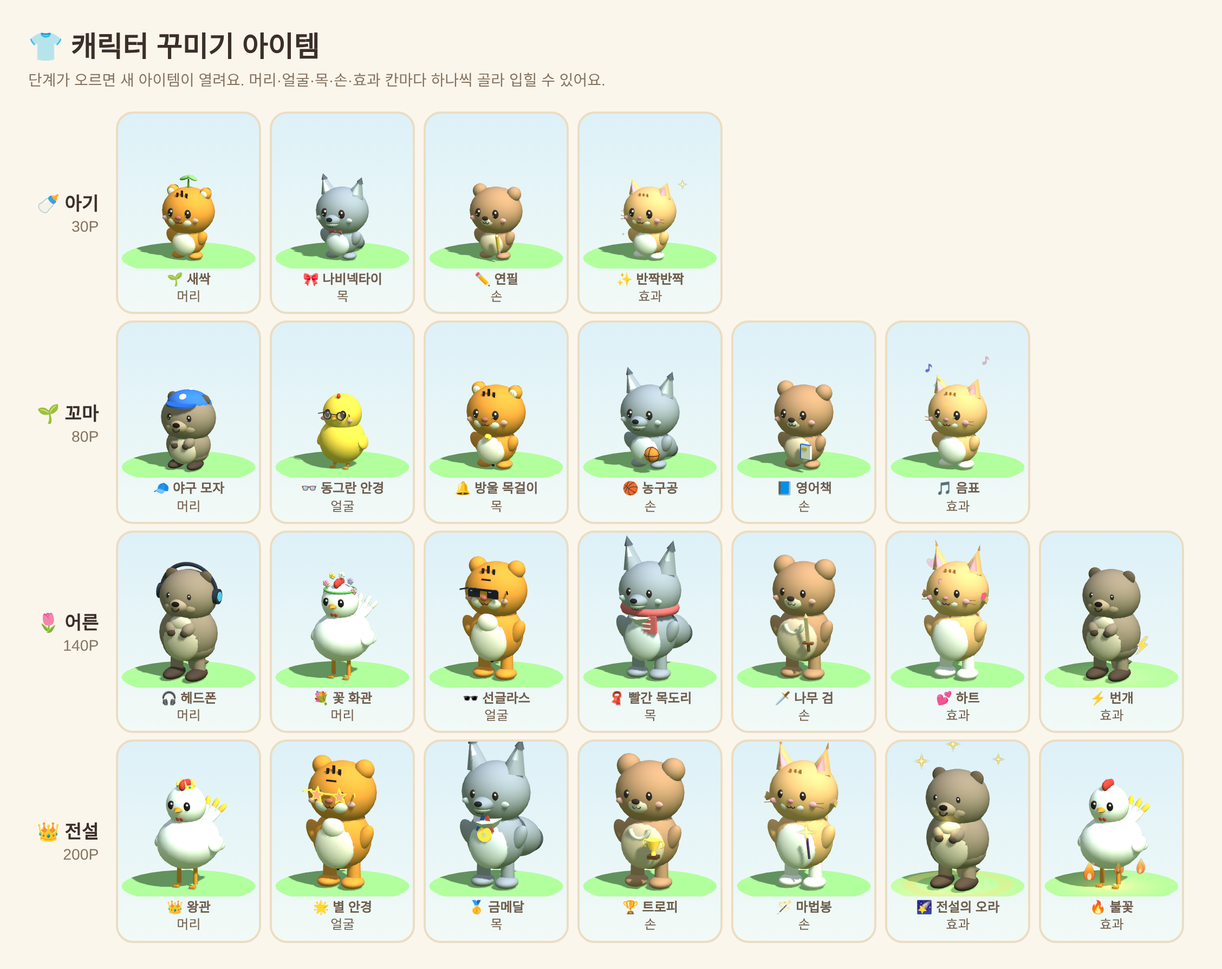
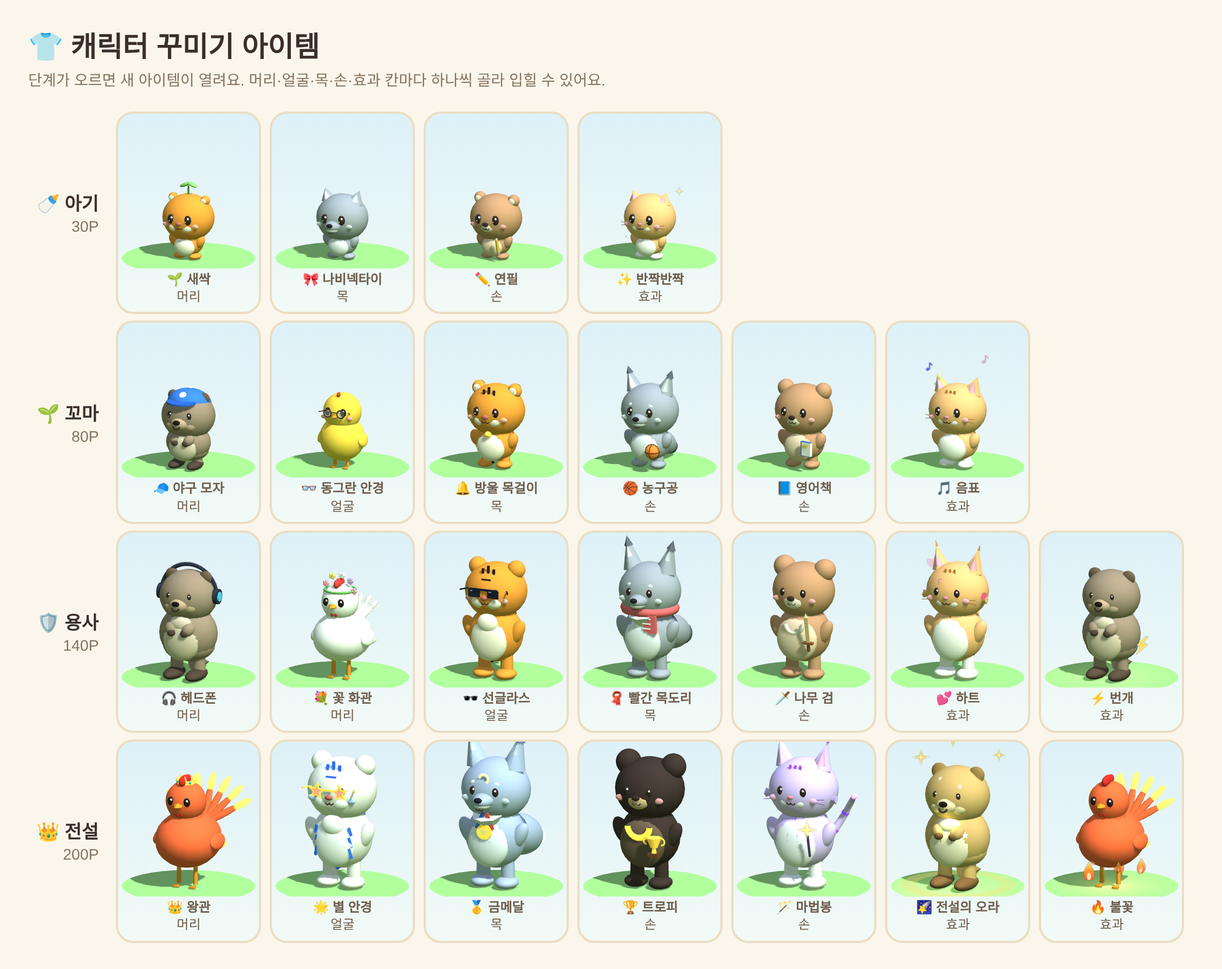
단계별 진화 모습 차별화, 어른→용사, 전설 단계 신수 변신
Claude-Session: https://claude.ai/code/session_01XAbtJ4oXmSkLcZTaopT91E

diff --git a/index.html b/index.html
@@ -810,7 +810,7 @@
       { min: 0,   label: '알',     emoji: '🥚', color: '#B08A5A', bg: '#F6ECDD' },
       { min: 30,  label: '아기',   emoji: '🍼', color: '#5B8C51', bg: '#E7F0DF' },
       { min: 80,  label: '꼬마',   emoji: '🌱', color: '#2F8F4F', bg: '#DCEDE0' },
-      { min: 140, label: '어른',   emoji: '🌷', color: '#B0558B', bg: '#F5E1EE' },
+      { min: 140, label: '용사',   emoji: '🛡', color: '#B0558B', bg: '#F5E1EE' },
       { min: 200, label: '전설',   emoji: '👑', color: '#7A4FA3', bg: '#EDE1F5' }
     ];
     function getBadge(points) {
@@ -3834,9 +3834,26 @@
         bear:   { body: 0xc1916a, belly: 0xe8cdae, accent: 0xf0a8a0, nose: 0x3a2e2a, egg: 0xf6e7d6, spot: 0xc1916a, muzzle: 0xf1dec6 },
         fox:    { body: 0xf09b52, belly: 0xfff7ec, accent: 0xf6b3a8, nose: 0x3a2e2a, egg: 0xffebd8, spot: 0xf09b52, tip: 0x5a3a28 }
       };
-      const STAGE_SCALE = [1.3, .98, 1.12, 1.22, 1.32, 1.42];
-      // 게임 단계(알·아기·꼬마·어른·전설 5단계) → 모델 체형 번호 (예전 청소년 체형 3번은 쓰지 않아요)
+      const STAGE_SCALE = [1.3, .88, 1.1, 1.22, 1.32, 1.44];
+      // 👑 전설 단계: 신수로 변신 (털 색이 바뀌고 glow 색 부분이 은은하게 빛나요)
+      const LEGEND = {
+        tiger:  { name: '백호', body: 0xf4f2ec, belly: 0xffffff, muzzle: 0xffffff, accent: 0xbcd4ff, stripe: 0x2457d6, glow: [0x2457d6], glowI: .35 },
+        wolf:   { name: '월광 늑대', body: 0xa9b8d4, belly: 0xeef3fb, muzzle: 0xeef3fb, accent: 0xc9d5ea, tip: 0x5e6f96, nose: 0x1f2433, moon: 0xffe680, tailGlow: 0xbfe0ff, glow: [0xffe680, 0xbfe0ff], glowI: .6 },
+        bear:   { name: '황금 반달곰', body: 0x3e322d, belly: 0x6b5848, muzzle: 0xcfae86, accent: 0xe8a0a0, moon: 0xffcf3d, glow: [0xffcf3d], glowI: .5 },
+        cat:    { name: '쌍꼬리 고양이', body: 0xdcc2ff, belly: 0xfaf5ff, accent: 0xf3b6e6, stripe: 0x8a3dff, whisker: 0x7a5aa6, tailGlow: 0xff9de8, glow: [0x8a3dff, 0xff9de8], glowI: .4 },
+        quokka: { name: '황금 쿼카', body: 0xcfaa6a, belly: 0xf3e6c8, muzzle: 0xe4cc9e, accent: 0xeaa896, rim: 0x9c7a46, paw: 0x6f5332, star: 0xfffbe6, glow: [0xfffbe6], glowI: .7 },
+        chick:  { name: '봉황', body: 0xff6b3d, belly: 0xffc04a, feather: 0xffd34d, comb: 0xe2302a, glow: [0xffd34d] }
+      };
+      function legendGlow(g, colors, k) {
+        const set = {}; colors.forEach(function (c) { set[c] = true; });
+        g.traverse(function (m) {
+          if (!m.isMesh || !m.material || !m.material.color || m.material.isMeshBasicMaterial) return;
+          const hex = m.material.color.getHex(); if (set[hex]) m.material = mat(hex, { emissive: hex, emissiveIntensity: k || .55 });
+        });
+      }
+      // 게임 단계(알·아기·꼬마·용사·전설 5단계) → 모델 체형 번호 (예전 청소년 체형 3번은 쓰지 않아요)
       const VIS = [0, 1, 2, 4, 5];
+      W.legendName = function (species) { return (LEGEND[species] || {}).name || ''; };
       function vis(s) { return VIS[Math.max(0, Math.min(VIS.length - 1, Number(s) || 0))]; }
       function sm(c) { return mat(c); }
       function ball(r, c, x, y, z, sx, sy, sz) {
@@ -3845,7 +3862,8 @@
       }
 
       function buildPet(species, stage) {
-        const S = SPC[species] || SPC.cat;
+        const legend = stage === 5;
+        const S = legend && LEGEND[species] ? Object.assign({}, SPC[species], LEGEND[species]) : (SPC[species] || SPC.cat);
         const g = new T.Group();
         const body = new T.Group(); g.add(body);
         const parts = { g: g, body: body };
@@ -3862,12 +3880,12 @@
           g.scale.setScalar(1);
           return parts;
         }
-        // 단계별 체형: 꼬마 → 청소년 → 어른으로 갈수록 몸이 길어지고, 다리가 보이고, 머리·눈 비율이 작아져요
-        const legH = [0, 0, 0, .12, .22, .22][stage];
-        const tSY = [0, .86, .9, 1.04, 1.14, 1.14][stage];      // 몸통 세로
-        const tSX = [0, .86, .9, .97, 1.0, 1.0][stage];         // 몸통 가로
-        const headS = [0, 1.0, .98, .93, .88, .9][stage];
-        const eyeS = [0, 1.15, 1.08, 1.0, .9, .9][stage];
+        // 단계별 체형: 아기 → 꼬마 → 용사 → 전설로 갈수록 몸이 길어지고, 다리가 보이고, 머리·눈 비율이 작아져요
+        const legH = [0, 0, .07, .12, .22, .24][stage];
+        const tSY = [0, .78, .9, 1.04, 1.14, 1.16][stage];      // 몸통 세로
+        const tSX = [0, .84, .92, .97, 1.0, 1.02][stage];       // 몸통 가로
+        const headS = [0, 1.1, .98, .93, .88, .9][stage];
+        const eyeS = [0, 1.25, 1.08, 1.0, .9, .9][stage];
         const ry = .46 * tSY, cy = .09 + legH + ry;              // 몸통 중심 높이
         const adult = stage >= 4;
         const torso = ball(.5, S.body, 0, cy, 0, tSX * (species === 'quokka' ? 1.08 : 1), .92 * tSY, .95 * tSX); body.add(torso);
@@ -3902,6 +3920,11 @@
           [-1, 1].forEach(function (sd) { head.add(ball(.17, S.muzzle, sd * .21, -.15, .43, 1, .85, .8)); });
         }
         const mouthM = new T.MeshBasicMaterial({ color: 0x3a2e2a });
+        if (species === 'wolf' && stage >= 2) {
+          // 늑대 얼굴 무늬 (꼬마부터): 눈 위 밝은 점
+          [-1, 1].forEach(function (sd) { head.add(ball(.08, S.belly, sd * .2, .2, .5, 1.2, .7, .4)); });
+        }
+        if (species === 'wolf' && legend) { const cr = mesh(new T.TorusGeometry(.085, .026, 6, 18, Math.PI * 1.25), sm(S.moon), 0, .3, .56); cr.rotation.z = -.9; head.add(cr); }
         if (species === 'wolf') {
           // 늑대: 앞으로 나온 주둥이
           const sn = 1 + (stage >= 3 ? .12 : 0) + (adult ? .1 : 0);
@@ -3922,8 +3945,8 @@
             [-.04, .04].forEach(function (x) { const m = new T.Mesh(new T.TorusGeometry(.04, .011, 4, 10, Math.PI), mouthM); m.position.set(x, -.14, species === 'bear' ? .62 : .59); m.rotation.z = Math.PI; head.add(m); });
           }
         }
-        if (species === 'tiger') {
-          // 호랑이 이마·볼 줄무늬
+        if (species === 'tiger' && stage >= 2) {
+          // 호랑이 이마·볼 줄무늬 (꼬마부터)
           const sc = sm(S.stripe);
           [[-.12, .44, .1], [0, .47, .17], [.12, .44, .1]].forEach(function (q) { head.add(mesh(new T.BoxGeometry(.05, q[2] + .08, .03), sc, q[0], q[1], .39)); });
           [-1, 1].forEach(function (sd) {
@@ -3932,33 +3955,33 @@
           if (adult) head.add(mesh(new T.BoxGeometry(.2, .04, .03), sc, 0, .32, .5));
         }
         if (species === 'cat') {
-          [-.1, 0, .1].forEach(function (x) { head.add(mesh(new T.BoxGeometry(.04, .14, .02), sm(S.stripe), x, .45, .38)); });
+          if (stage >= 2) [-.1, 0, .1].forEach(function (x) { head.add(mesh(new T.BoxGeometry(.04, .14, .02), sm(S.stripe), x, .45, .38)); });
           const wm = new T.MeshBasicMaterial({ color: S.whisker || 0x5e6780 });
           [[-1, .0], [-1, -.06], [1, 0], [1, -.06]].forEach(function (w) { const l = new T.Mesh(new T.BoxGeometry(.24 + (adult ? .06 : 0), .01, .01), wm); l.position.set(w[0] * .46, -.08 + w[1], .45); l.rotation.z = w[0] * (w[1] ? -.12 : .12); head.add(l); });
-          // 어른 고양이: 볼 털
+          // 용사 고양이: 볼 털
           if (adult) [-1, 1].forEach(function (s) { const c = mesh(new T.ConeGeometry(.09, .22, 4), sm(S.body), s * .6, -.12, .12); c.rotation.z = s * Math.PI / 2; head.add(c); });
         }
         // 귀 (자랄수록 길어지고 커져요)
         if (species === 'cat' || species === 'fox' || species === 'wolf') {
-          const h = species === 'cat' ? [0, .36, .4, .45, .5, .5][stage] : (species === 'wolf' ? [0, .5, .56, .64, .7, .7][stage] : [0, .48, .54, .6, .66, .66][stage]);
+          const h = species === 'cat' ? [0, .25, .4, .45, .5, .53][stage] : (species === 'wolf' ? [0, .32, .56, .64, .7, .76][stage] : [0, .48, .54, .6, .66, .66][stage]);
           const w = species === 'cat' ? .21 : .21 + (stage >= 3 ? .03 : 0);
           [-1, 1].forEach(function (s) {
             const ear = new T.Group(); ear.position.set(s * .36, .42, 0); ear.rotation.z = -s * (stage >= 3 ? .24 : .32);
             ear.add(mesh(new T.ConeGeometry(w, h, 4), sm(S.body), 0, h / 2, 0));
             ear.add(mesh(new T.ConeGeometry(w * .57, h * .7, 4), sm(S.accent), 0, h * .38, .08));
-            if (species === 'fox' || species === 'wolf') ear.add(mesh(new T.ConeGeometry(w * .43, h * .3, 4), sm(S.tip), 0, h * .85, 0));
+            if ((species === 'fox' || species === 'wolf') && stage >= 2) ear.add(mesh(new T.ConeGeometry(w * .43, h * .3, 4), sm(S.tip), 0, h * .85, 0));
             if (species === 'cat' && adult) ear.add(mesh(new T.ConeGeometry(.03, .14, 3), sm(S.stripe), 0, h + .04, 0));
             head.add(ear);
           });
         } else if (species === 'tiger') {
-          const er = [0, .15, .16, .18, .19, .19][stage];
+          const er = [0, .12, .16, .18, .19, .2][stage];
           [-1, 1].forEach(function (s) {
             head.add(ball(er, S.body, s * .43, .46, -.05));
             head.add(ball(er * .6, S.muzzle, s * .43, .46, .07, 1, 1, .4));
-            head.add(ball(er * .75, S.stripe, s * .43, .48, -.14, 1, 1, .4));
+            if (stage >= 2) head.add(ball(er * .75, S.stripe, s * .43, .48, -.14, 1, 1, .4));
           });
         } else if (species === 'quokka') {
-          const er = [0, .13, .14, .15, .16, .16][stage];
+          const er = [0, .1, .14, .15, .16, .17][stage];
           [-1, 1].forEach(function (sd) {
             const ear = new T.Group(); ear.position.set(sd * .4, .44, -.02); ear.rotation.z = -sd * .35;
             ear.add(ball(er, S.rim, 0, 0, 0, 1, 1, .55));
@@ -3967,7 +3990,7 @@
             head.add(ear);
           });
         } else {
-          const er = [0, .18, .19, .21, .23, .23][stage];
+          const er = [0, .15, .19, .21, .23, .24][stage];
           [-1, 1].forEach(function (s) { head.add(ball(er, S.body, s * .45, .45, -.05)); head.add(ball(er * .55, S.muzzle, s * .45, .45, .08, 1, 1, .4)); });
         }
         // 팔
@@ -3991,11 +4014,13 @@
         };
         const footL = mkFoot(-.22), footR = mkFoot(.22);
         parts.footL = footL; parts.footR = footR; parts.armL = armL; parts.armR = armR;
-        // 몸 무늬 (어른)
+        // 몸 무늬 (꼬마부터)
         if (species === 'tiger' && stage >= 2) {
           const n = adult ? 4 : 3;
-          for (let i = 0; i < n; i++) { const z = (i - (n - 1) / 2) * (adult ? .2 : .25); const st = mesh(new T.TorusGeometry(.43 * tSX, .035, 4, 16, Math.PI * .65), sm(S.stripe), 0, cy + z * .6 + .05, -.06); st.rotation.y = Math.PI / 2; st.rotation.z = Math.PI * .67; body.add(st); }
+          for (let i = 0; i < n; i++) { const z = (i - (n - 1) / 2) * (adult ? .2 : .25); const st = mesh(new T.TorusGeometry(.43 * tSX, legend ? .05 : .035, 4, 16, Math.PI * .65), sm(S.stripe), 0, cy + z * .6 + .05, -.06); st.rotation.y = Math.PI / 2; st.rotation.z = Math.PI * .67; body.add(st); }
           if (adult) body.add(ball(.2, S.belly, 0, cy + ry * .5, .38 * tSX, 1, .9, .6));
+          // 백호: 몸 앞쪽 옆구리에도 빛나는 줄무늬
+          if (legend) [-1, 1].forEach(function (sd) { [-.18, 0, .18].forEach(function (dy, i) { const b = mesh(new T.BoxGeometry(.045, .2 - i * .03, .03), sm(S.stripe), sd * .3 * tSX, cy + dy, .37 * tSX); b.rotation.y = sd * .65; b.rotation.z = sd * .3; body.add(b); }); });
         }
         if (adult && species === 'wolf') {
           const ruff = mesh(new T.ConeGeometry(.26, .42, 8), sm(S.belly), 0, cy + ry * .45, .3 * tSX); ruff.rotation.x = Math.PI + .25; body.add(ruff);
@@ -4003,54 +4028,66 @@
         }
         if (adult && species === 'quokka') body.add(ball(.2, S.belly, 0, cy + ry * .45, .34 * tSX, 1.1, .8, .6));
         if (species === 'cat' && stage >= 2) { (adult ? [-.25, 0, .25] : [-.15, .15]).forEach(function (z) { const st = mesh(new T.TorusGeometry(.42 * tSX, .028, 4, 16, Math.PI * .6), sm(S.stripe), 0, cy + z * .5 + .05, -.06); st.rotation.y = Math.PI / 2; st.rotation.z = Math.PI * .7; body.add(st); }); }
-        if (adult && species === 'bear') { const moon = mesh(new T.TorusGeometry(.17, .045, 6, 14, Math.PI), sm(0xf6ead6), 0, cy + ry * .5, .44 * tSX); moon.rotation.z = Math.PI; body.add(moon); }
+        if (adult && species === 'bear') { const moon = mesh(new T.TorusGeometry(legend ? .2 : .17, legend ? .055 : .045, 6, 14, Math.PI), sm(S.moon || 0xf6ead6), 0, cy + ry * .5, .44 * tSX + (legend ? .02 : 0)); moon.rotation.z = Math.PI; body.add(moon); }
         if (adult && species === 'fox') { const ruff = mesh(new T.ConeGeometry(.24, .4, 8), sm(S.belly), 0, cy + ry * .45, .3 * tSX); ruff.rotation.x = Math.PI + .25; body.add(ruff); }
         // 꼬리 (자랄수록 커져요)
-        const tg = [0, .85, .95, 1.1, 1.25, 1.3][stage];
+        const tg = [0, .55, .95, 1.1, 1.25, 1.35][stage];
         if (qk) { const qt = mesh(new T.ConeGeometry(.12 * tg, .5 * tg, 8), sm(S.body), 0, .14, -.62 * tSX); qt.rotation.x = -1.75; body.add(qt); }
         if (species === 'tiger') {
           // 고리 무늬가 있는 긴 꼬리
           const k = tg * .62, y0 = cy - .18;
           const curve = new T.CatmullRomCurve3([new T.Vector3(0, y0, -.42 * tSX), new T.Vector3(0, y0 - .04, -.42 - .32 * k), new T.Vector3(0, y0 + .22 * k, -.42 - .5 * k), new T.Vector3(0, y0 + .45 * k, -.42 - .42 * k)]);
           const tail = new T.Group();
-          for (let i = 0; i <= 7; i++) { const pt = curve.getPoint(i / 7); tail.add(ball(.085 - i * .002, i === 7 || i % 3 === 2 ? S.stripe : S.body, pt.x, pt.y, pt.z)); }
+          for (let i = 0; i <= 7; i++) { const pt = curve.getPoint(i / 7); tail.add(ball(.085 - i * .002, stage >= 2 && (i === 7 || i % 3 === 2) ? S.stripe : S.body, pt.x, pt.y, pt.z)); }
           body.add(tail); parts.tail = tail;
         }
         if (species === 'bear') body.add(ball(.12 * tg, S.body, 0, cy - .13, -.48 * tSX));
         if (species === 'cat') {
-          // 고양이 꼬리: 엉덩이에 붙어서 위로 부드럽게 올라가고, 끝으로 갈수록 가늘어지다 살짝 말려요
-          const k = tg, y0 = cy - .22, z0 = -.4 * tSX;
-          const curve = new T.CatmullRomCurve3([
-            new T.Vector3(0, y0, z0), new T.Vector3(0, y0 + .02, z0 - .2 * k), new T.Vector3(0, y0 + .28 * k, z0 - .32 * k),
-            new T.Vector3(0, y0 + .58 * k, z0 - .28 * k), new T.Vector3(.04, y0 + .74 * k, z0 - .12 * k)]);
-          const tail = new T.Group(), seg = 32, rad = 10;
-          // 끝으로 갈수록 가늘어지는 매끈한 관
-          const geo = new T.TubeGeometry(curve, seg, .085, rad, false), pos = geo.attributes.position, c = new T.Vector3(), v = new T.Vector3();
-          for (let i = 0; i <= seg; i++) {
-            const u = i / seg; c.copy(curve.getPointAt(u));
-            const f = 1 - u * .5;
-            for (let j = 0; j <= rad; j++) { const idx = i * (rad + 1) + j; v.fromBufferAttribute(pos, idx).sub(c).multiplyScalar(f).add(c); pos.setXYZ(idx, v.x, v.y, v.z); }
-          }
-          geo.computeVertexNormals();
-          tail.add(mesh(geo, sm(S.body)));
-          const tipP = curve.getPointAt(1); tail.add(ball(.085 * .5, S.stripe, tipP.x, tipP.y, tipP.z));
-          const tipStripe = mesh(new T.CylinderGeometry(.045, .047, .07, 10), sm(S.stripe));
-          const pT = curve.getPointAt(.93); tipStripe.position.copy(pT); tipStripe.lookAt(pT.clone().add(curve.getTangentAt(.93))); tipStripe.rotateX(Math.PI / 2); tail.add(tipStripe);
-          if (stage >= 2) [.35, .6].forEach(function (u) {
-            const pt = curve.getPointAt(u), r = .085 * (1 - u * .5) + .004;
-            const ringM = mesh(new T.CylinderGeometry(r, r, .045, 12), sm(S.stripe)); ringM.position.copy(pt);
-            ringM.lookAt(pt.clone().add(curve.getTangentAt(u))); ringM.rotateX(Math.PI / 2); tail.add(ringM);
-          });
-          body.add(tail); parts.tail = tail;
+          // 고양이 꼬리: 엉덩이에 붙어서 위로 부드럽게 올라가고, 끝으로 갈수록 가늘어지다 살짝 말려요 (전설은 꼬리가 두 개)
+          const tails = new T.Group();
+          const mkTail = function (xo, rz) {
+            const k = tg, y0 = cy - .22, z0 = -.4 * tSX;
+            const curve = new T.CatmullRomCurve3([
+              new T.Vector3(0, y0, z0), new T.Vector3(0, y0 + .02, z0 - .2 * k), new T.Vector3(0, y0 + .28 * k, z0 - .32 * k),
+              new T.Vector3(0, y0 + .58 * k, z0 - .28 * k), new T.Vector3(.04, y0 + .74 * k, z0 - .12 * k)]);
+            const tail = new T.Group(), seg = 32, rad = 10;
+            // 끝으로 갈수록 가늘어지는 매끈한 관
+            const geo = new T.TubeGeometry(curve, seg, .085, rad, false), pos = geo.attributes.position, c = new T.Vector3(), v = new T.Vector3();
+            for (let i = 0; i <= seg; i++) {
+              const u = i / seg; c.copy(curve.getPointAt(u));
+              const f = 1 - u * .5;
+              for (let j = 0; j <= rad; j++) { const idx = i * (rad + 1) + j; v.fromBufferAttribute(pos, idx).sub(c).multiplyScalar(f).add(c); pos.setXYZ(idx, v.x, v.y, v.z); }
+            }
+            geo.computeVertexNormals();
+            tail.add(mesh(geo, sm(S.body)));
+            const tipP = curve.getPointAt(1); tail.add(ball(.085 * (legend ? .62 : .5), legend ? S.tailGlow : (stage >= 2 ? S.stripe : S.body), tipP.x, tipP.y, tipP.z));
+            if (stage >= 2) { const tipStripe = mesh(new T.CylinderGeometry(.045, .047, .07, 10), sm(S.stripe));
+            const pT = curve.getPointAt(.93); tipStripe.position.copy(pT); tipStripe.lookAt(pT.clone().add(curve.getTangentAt(.93))); tipStripe.rotateX(Math.PI / 2); tail.add(tipStripe); }
+            if (stage >= 2) [.35, .6].forEach(function (u) {
+              const pt = curve.getPointAt(u), r = .085 * (1 - u * .5) + .004;
+              const ringM = mesh(new T.CylinderGeometry(r, r, .045, 12), sm(S.stripe)); ringM.position.copy(pt);
+              ringM.lookAt(pt.clone().add(curve.getTangentAt(u))); ringM.rotateX(Math.PI / 2); tail.add(ringM);
+            });
+            const piv = new T.Group(); piv.position.set(xo, y0, z0); piv.rotation.z = rz; tail.position.set(0, -y0, -z0); piv.add(tail); tails.add(piv);
+          };
+          if (legend) { mkTail(-.1, .55); mkTail(.1, -.55); } else mkTail(0, 0);
+          body.add(tails); parts.tail = tails;
         }
         if (species === 'fox' || species === 'wolf') {
           const wolf = species === 'wolf';
           const tail = new T.Group(); tail.position.set(0, cy - (wolf ? .05 : 0), -.5 * tSX); tail.rotation.x = (wolf ? -.45 : -.9) + (stage >= 3 ? .15 : 0);
           const ts = tg;
           tail.add(ball(.26 * ts, S.body, 0, 0, -.3 * ts, 1, 1, 1.9));
-          tail.add(ball(.17 * ts, wolf ? S.tip : S.belly, 0, 0, -.72 * ts, 1, 1, 1.1));
+          tail.add(ball(.17 * ts, wolf ? (legend ? S.tailGlow : S.tip) : S.belly, 0, 0, -.72 * ts, 1, 1, 1.1));
           body.add(tail); parts.tail = tail;
         }
+        if (legend && qk) {
+          // 황금 쿼카: 머리와 몸에 빛나는 별 무늬
+          const starM = sm(S.star);
+          [[head, .26, .3, .48, .9], [head, -.2, .4, .4, .8], [head, .05, .5, .2, .7]].forEach(function (q) { const s = starMesh(.06 * q[4], starM, .02); s.position.set(q[1], q[2], q[3]); s.lookAt(s.position.clone().multiplyScalar(2)); q[0].add(s); });
+          [[.3, .12, .38], [-.32, -.05, .34], [.38, -.2, .2], [-.2, .2, -.4], [.25, -.05, -.42]].forEach(function (q) { const s = starMesh(.065, starM, .02); s.position.set(q[0] * tSX, cy + q[1], q[2] * tSX); s.lookAt(new T.Vector3(q[0] * 3, cy + q[1] * 3, q[2] * 3)); body.add(s); });
+        }
+        if (legend && S.glow) legendGlow(g, S.glow, S.glowI);
         // 꾸미기 아이템을 붙일 자리 (머리는 반지름 .6 기준, 목은 몸통 좌표)
         parts.hR = .6; parts.faceY = qk ? .04 : 0;
         parts.neck = { y: cy + ry - .05, r: .4 * tSX, z: 0 };
@@ -4074,14 +4111,15 @@
 
       // ---------- 🐥 병아리 → 🐔 닭 (새는 몸 구조가 달라서 따로 만들어요) ----------
       function buildBird(stage) {
-        const S = SPC.chick;
+        const legend = stage === 5;
+        const S = legend ? Object.assign({}, SPC.chick, LEGEND.chick) : SPC.chick;
         const g = new T.Group();
         const body = new T.Group(); g.add(body);
         const parts = { g: g, body: body };
-        const legH = [0, 0, 0, .12, .22, .22][stage];
-        const br = [0, .46, .5, .5, .52, .52][stage];
-        const hr = [0, .42, .42, .37, .34, .34][stage];
-        const eyeS = [0, 1.15, 1.08, 1.0, .9, .9][stage];
+        const legH = [0, 0, .06, .12, .22, .24][stage];
+        const br = [0, .42, .5, .5, .52, .54][stage];
+        const hr = [0, .44, .42, .37, .34, .34][stage];
+        const eyeS = [0, 1.25, 1.08, 1.0, .9, .9][stage];
         const col = [0, S.chick, S.chick, S.teen, S.body, S.body][stage];
         const bel = [0, S.chickBelly, S.chickBelly, S.teenBelly, S.belly, S.belly][stage];
         const adult = stage >= 4;
@@ -4113,7 +4151,7 @@
         const bk = adult ? 1.15 : 1;
         const beakT = mesh(new T.ConeGeometry(.075 * bk, .16 * bk, 6), sm(S.beak), 0, -hr * .05, hr + .05); beakT.rotation.x = Math.PI / 2; beakT.scale.set(1.2, 1, .7); head.add(beakT);
         // 볏·턱볏 (자랄수록 커져요)
-        const combN = [0, 0, 1, 3, 4, 4][stage], combR = [0, 0, .06, .07, .085, .09][stage];
+        const combN = [0, 0, 1, 3, 4, 5][stage], combR = [0, 0, .06, .07, .085, .09][stage];
         for (let i = 0; i < combN; i++) {
           const t = combN === 1 ? 0 : i / (combN - 1);
           head.add(ball(combR * (1 - Math.abs(t - .35) * .4), S.comb, 0, hr * .92 + combR * .5, hr * (.45 - t * .7), .7, 1.1, 1));
@@ -4131,12 +4169,12 @@
         const tail = new T.Group(); tail.position.set(0, cy + br * .2, -br * sz * .85);
         if (stage <= 2) { const tf = mesh(new T.ConeGeometry(.08, .2, 6), sm(col), 0, .05, -.04); tf.rotation.x = -.9; tail.add(tf); }
         else {
-          const n = stage === 3 ? 3 : 5, len = stage === 3 ? .32 : .5;
+          const n = stage === 3 ? 3 : (legend ? 7 : 5), len = stage === 3 ? .32 : (legend ? .78 : .5);
           for (let i = 0; i < n; i++) {
             const a = (i - (n - 1) / 2) * .32;
             const f = new T.Group(); f.rotation.set(-.55, 0, a);
             f.add(ball(.09, col, 0, len * .5, 0, .7, len * 5.2, .4));
-            if (stage >= 4) f.add(ball(.07, stage === 5 ? 0xffc93c : S.feather, 0, len * .95, 0, .7, 1.6, .4));
+            if (stage >= 4) f.add(ball(legend ? .09 : .07, S.feather, 0, len * .95, 0, .7, legend ? 2.2 : 1.6, .4));
             tail.add(f);
           }
         }
@@ -4150,6 +4188,11 @@
           g.add(f); return f;
         };
         parts.footL = mkFoot(-.15); parts.footR = mkFoot(.15);
+        if (legend) {
+          // 봉황: 머리 뒤로 늘어진 금빛 깃 두 가닥
+          [-1, 1].forEach(function (sd) { const pl = ball(.05, S.feather, sd * .06, hr * .6, -hr * .9, .6, .6, 3.2); pl.rotation.x = .7; head.add(pl); });
+          legendGlow(g, S.glow);
+        }
         // 꾸미기 아이템을 붙일 자리
         parts.hR = hr; parts.faceY = 0;
         parts.neck = { y: head.position.y - hr * .85, r: hr * .85, z: head.position.z * .6 + br * sz * .42 };
@@ -5609,8 +5652,8 @@
     const PET_SPECIES_ORDER = ['tiger', 'wolf', 'chick', 'bear', 'cat', 'quokka'];
     // 병아리는 자라면 닭이 돼요: 단계에 따라 이름·이모지가 바뀌어요
     function petEmoji(species, stage) { if (species === 'chick') return stage >= 3 ? '🐔' : '🐥'; return (PET_SPECIES[species] || {}).emoji || '🐾'; }
-    function petKind(species, stage) { if (species === 'chick') return stage >= 3 ? '닭' : '병아리'; return (PET_SPECIES[species] || {}).name || ''; }
-    // 👕 캐릭터 꾸미기 아이템 (stage: 열리는 BADGE_TIERS 번호 — 1 아기, 2 꼬마, 3 어른, 4 전설)
+    function petKind(species, stage) { if (stage >= 4 && WORLD.legendName && WORLD.legendName(species)) return WORLD.legendName(species); if (species === 'chick') return stage >= 3 ? '닭' : '병아리'; return (PET_SPECIES[species] || {}).name || ''; }
+    // 👕 캐릭터 꾸미기 아이템 (stage: 열리는 BADGE_TIERS 번호 — 1 아기, 2 꼬마, 3 용사, 4 전설)
     const OUTFIT_SLOTS = [
       { id: 'head', name: '머리', emoji: '🎩' }, { id: 'face', name: '얼굴', emoji: '👓' }, { id: 'neck', name: '목', emoji: '🎀' },
       { id: 'hand', name: '손', emoji: '✋' }, { id: 'effect', name: '효과', emoji: '✨' }
@@ -6334,7 +6377,7 @@
         box.classList.remove('wait');
         box.querySelector('.g-evo-title').textContent = hatch ? '알이 부화했어요! 🐣' : (isMax ? '최종 진화! 👑' : '진화했어요! ✨');
         box.querySelector('.g-evo-sub').textContent = hatch ? josa(pet.name, '이', '가') + ' 알에서 깨어났어요. 반가워요! 💕'
-          : (isMax ? josa(pet.name, '이', '가') + ' 전설의 친구가 되었어요!' : josa(pet.name, '이', '가') + ' ' + tier.label + ' 단계로 자랐어요. 꾸준히 잘 쓰고 있어요!');
+          : (isMax ? josa(pet.name, '이', '가') + ' 전설의 ' + josa(petKind(pet.species, idx), '으로', '로') + ' 변신했어요! 👑' : josa(pet.name, '이', '가') + ' ' + tier.label + ' 단계로 자랐어요. 꾸준히 잘 쓰고 있어요!');
         const gifts = newOutfitBetween(prevIdx, idx);
         if (gifts.length) {
           const g = document.createElement('div'); g.className = 'g-evo-gift';

diff --git a/README.md b/README.md
@@ -9,7 +9,12 @@
 
 ## 🐾 친구 진화 도감
 
-포인트가 쌓이면 5단계로 자라요: 🥚 알 (0P) → 🍼 아기 (30P) → 🌱 꼬마 (80P) → 🌷 어른 (140P) → 👑 전설 (200P)
+포인트가 쌓이면 5단계로 자라요: 🥚 알 (0P) → 🍼 아기 (30P) → 🌱 꼬마 (80P) → 🛡 용사 (140P) → 👑 전설 (200P)
+
+- 🍼 아기: 동글동글 작은 몸, 무늬·다리 없음
+- 🌱 꼬마: 귀·꼬리가 자라고 동물 무늬가 생겨요
+- 🛡 용사: 다리가 길어지고 갈기·반달 같은 어른 특징이 생겨요 (병아리 → 닭)
+- 👑 전설: 신수로 변신! 🐯 백호 · 🐺 월광 늑대 · 🐔 봉황 · 🐻 황금 반달곰 · 🐱 쌍꼬리 고양이 · 🦘 황금 쿼카
 
 ![친구 진화 도감](docs/evolution_guide.png)
 
@@ -21,7 +26,7 @@
 |---|---|
 | 🍼 아기 (30P) | 🌱 새싹, 🎀 나비넥타이, ✏ 연필, ✨ 반짝반짝 |
 | 🌱 꼬마 (80P) | 🧢 야구 모자, 👓 동그란 안경, 🔔 방울 목걸이, 🏀 농구공, 📘 영어책, 🎵 음표 |
-| 🌷 어른 (140P) | 🎧 헤드폰, 💐 꽃 화관, 🕶 선글라스, 🧣 빨간 목도리, 🗡 나무 검, 💕 하트, ⚡ 번개 |
+| 🛡 용사 (140P) | 🎧 헤드폰, 💐 꽃 화관, 🕶 선글라스, 🧣 빨간 목도리, 🗡 나무 검, 💕 하트, ⚡ 번개 |
 | 👑 전설 (200P) | 👑 왕관, 🌟 별 안경, 🥇 금메달, 🏆 트로피, 🪄 마법봉, 🌠 전설의 오라, 🔥 불꽃 |
 
 ![꾸미기 아이템](docs/outfit_guide.png)
